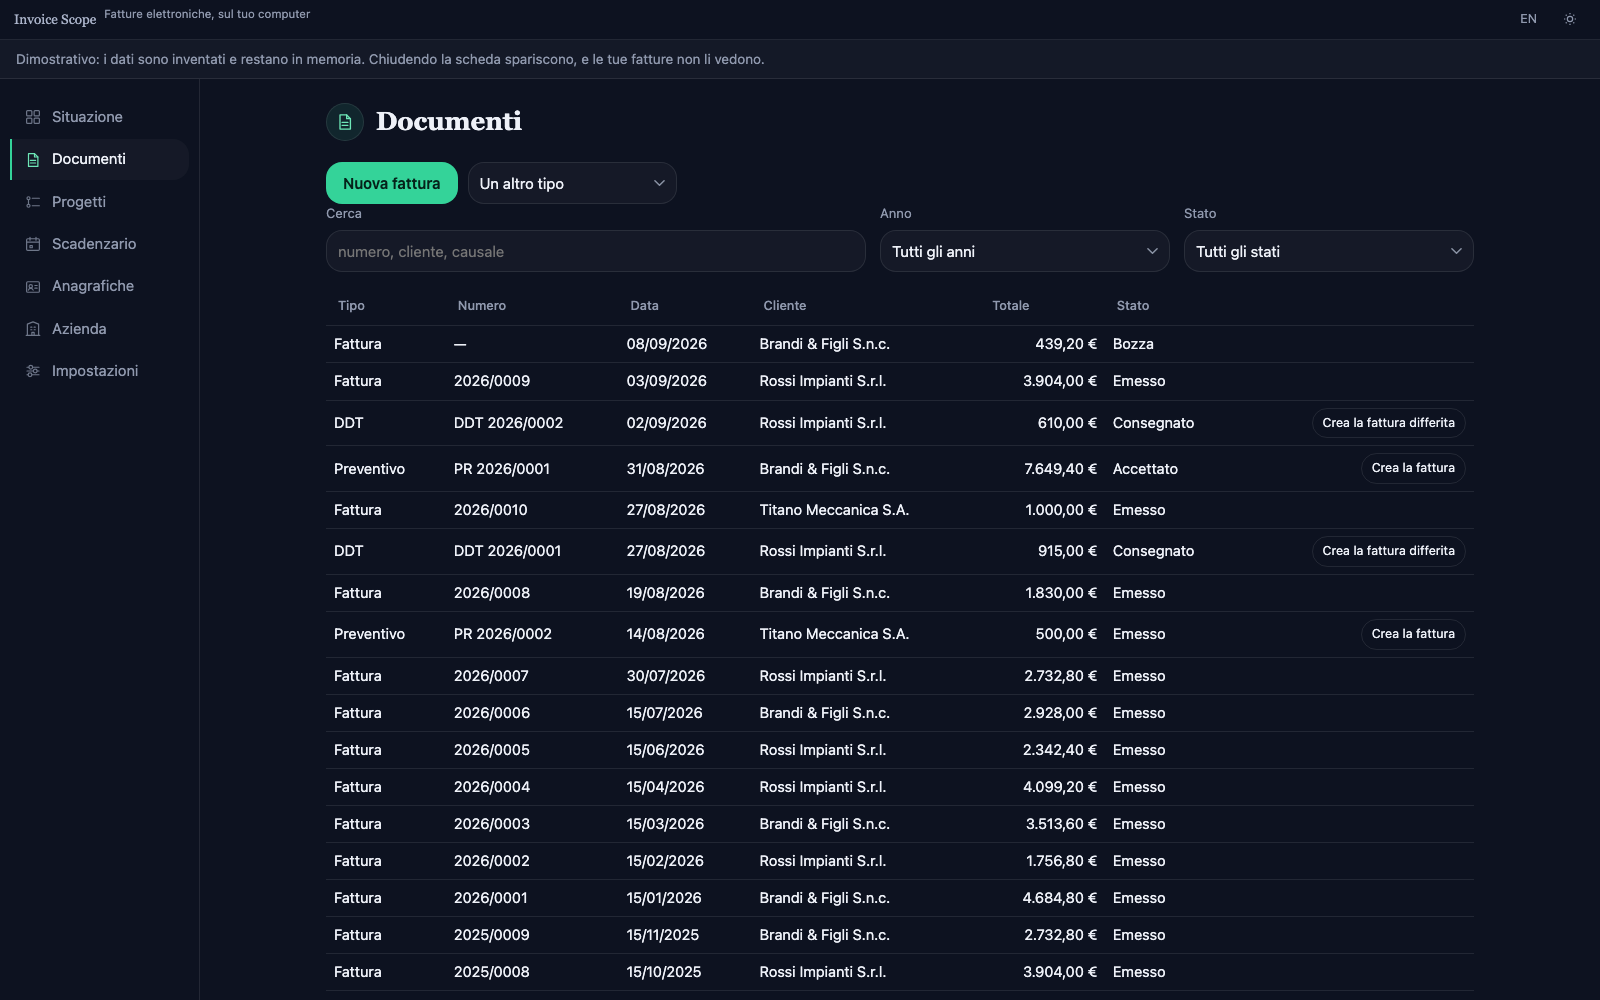
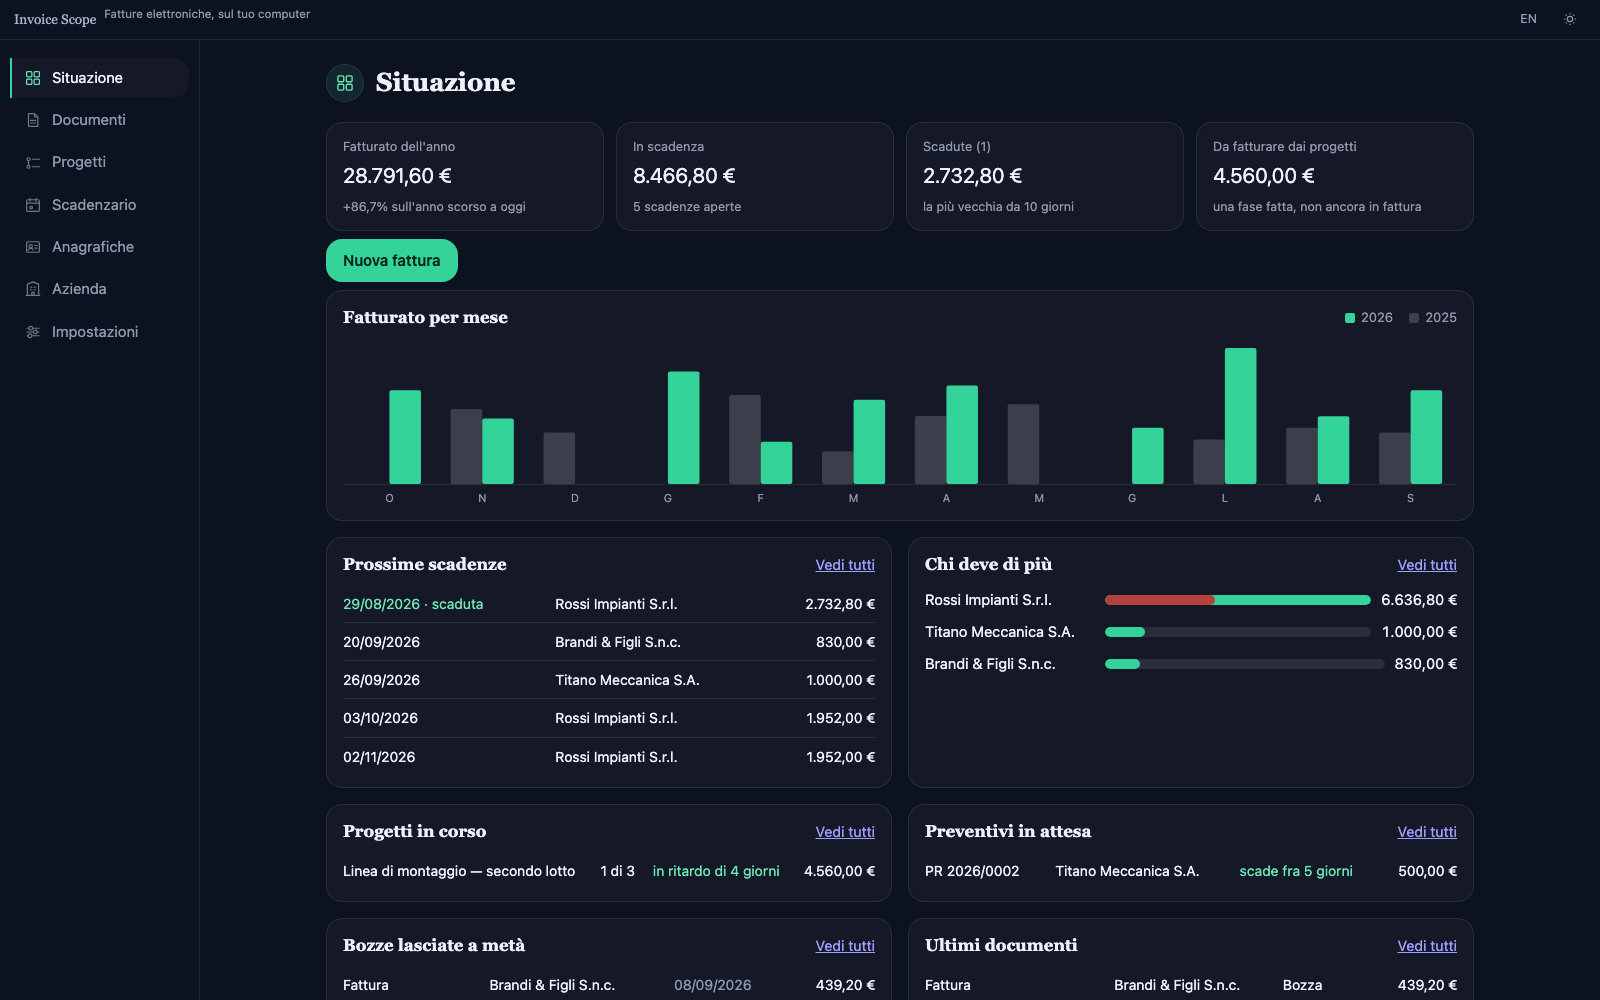
no message

diff --git a/app/invoice-scope/index.html b/app/invoice-scope/index.html
@@ -42,7 +42,7 @@
       document.documentElement.classList.add('js');
     })();
   </script>
-  <link rel="stylesheet" href="../../assets/site.css?v=010.790acb6c">
+  <link rel="stylesheet" href="../../assets/site.css?v=011.38507339">
   <script type="application/ld+json">
 [
   {
@@ -52,7 +52,7 @@
     "url": "https://ggtechnologies.sm/app/invoice-scope/",
     "applicationCategory": "UtilitiesApplication",
     "operatingSystem": "Any (web browser)",
-    "softwareVersion": "0.37.3",
+    "softwareVersion": "0.37.5",
     "datePublished": "2026-09-03",
     "dateModified": "2026-09-08",
     "license": "https://www.apache.org/licenses/LICENSE-2.0",
@@ -158,7 +158,29 @@
         </div>
       <figure class="app-shot reveal">
         <img src="/assets/shot-invoice-scope-it.png" width="1600" height="1000" loading="lazy" decoding="async"
-             alt="L'interfaccia dell'app, in esecuzione nel browser.">
+             alt="La Situazione: quanto hai fatturato, quanto ti devono, il fatturato per mese, chi deve di più, i progetti in ritardo.">
+        <div class="app-gallery" aria-label="Altre schermate">
+          <a class="app-gallery-item" href="/assets/shot-invoice-scope-fattura-it.png" target="_blank" rel="noopener">
+            <img src="/assets/shot-invoice-scope-fattura-it.png" width="1600" height="1000" loading="lazy" decoding="async"
+                 alt="Una fattura emessa: righe, riepilogo IVA, incassi, e il file XML da scaricare.">
+            <span>Una fattura emessa: righe, riepilogo IVA, incassi, e il file XML da scaricare.</span>
+          </a>
+          <a class="app-gallery-item" href="/assets/shot-invoice-scope-progetto-it.png" target="_blank" rel="noopener">
+            <img src="/assets/shot-invoice-scope-progetto-it.png" width="1600" height="1000" loading="lazy" decoding="async"
+                 alt="Un progetto: le fasi con l'importo, le pagine di appunti, i documenti collegati.">
+            <span>Un progetto: le fasi con l'importo, le pagine di appunti, i documenti collegati.</span>
+          </a>
+          <a class="app-gallery-item" href="/assets/shot-invoice-scope-cliente-it.png" target="_blank" rel="noopener">
+            <img src="/assets/shot-invoice-scope-cliente-it.png" width="1600" height="1000" loading="lazy" decoding="async"
+                 alt="La scheda di un cliente: le persone, il diario delle telefonate, i suoi documenti.">
+            <span>La scheda di un cliente: le persone, il diario delle telefonate, i suoi documenti.</span>
+          </a>
+          <a class="app-gallery-item" href="/assets/shot-invoice-scope-scadenzario-it.png" target="_blank" rel="noopener">
+            <img src="/assets/shot-invoice-scope-scadenzario-it.png" width="1600" height="1000" loading="lazy" decoding="async"
+                 alt="Lo scadenzario: le rate, quelle scadute, e l'incasso da registrare.">
+            <span>Lo scadenzario: le rate, quelle scadute, e l'incasso da registrare.</span>
+          </a>
+        </div>
       </figure>
         <div class="app-lists">
           <div class="app-list does">
@@ -291,7 +313,7 @@
             </div>
           </div>
         </div>
-        <p class="app-meta"><span><b>Versione</b> 0.37.3</span><span><b>Aggiornata il</b> 8 settembre 2026</span><span><b>Licenza</b> Apache-2.0</span><a href="https://github.com/G-G-Technologies-Srl/g-g-technologies-srl.github.io/tree/main/app/invoice-scope" rel="noopener">Codice sorgente</a></p>
+        <p class="app-meta"><span><b>Versione</b> 0.37.5</span><span><b>Aggiornata il</b> 8 settembre 2026</span><span><b>Licenza</b> Apache-2.0</span><a href="https://github.com/G-G-Technologies-Srl/g-g-technologies-srl.github.io/tree/main/app/invoice-scope" rel="noopener">Codice sorgente</a></p>
       </div>
     </section>
 

diff --git a/en/app/invoice-scope/index.html b/en/app/invoice-scope/index.html
@@ -42,7 +42,7 @@
       document.documentElement.classList.add('js');
     })();
   </script>
-  <link rel="stylesheet" href="../../../assets/site.css?v=010.790acb6c">
+  <link rel="stylesheet" href="../../../assets/site.css?v=011.38507339">
   <script type="application/ld+json">
 [
   {
@@ -52,7 +52,7 @@
     "url": "https://ggtechnologies.sm/en/app/invoice-scope/",
     "applicationCategory": "UtilitiesApplication",
     "operatingSystem": "Any (web browser)",
-    "softwareVersion": "0.37.3",
+    "softwareVersion": "0.37.5",
     "datePublished": "2026-09-03",
     "dateModified": "2026-09-08",
     "license": "https://www.apache.org/licenses/LICENSE-2.0",
@@ -158,7 +158,29 @@
         </div>
       <figure class="app-shot reveal">
         <img src="/assets/shot-invoice-scope-en.png" width="1600" height="1000" loading="lazy" decoding="async"
-             alt="The app running in the browser.">
+             alt="The overview: what you have invoiced, what you are owed, invoicing by month, who owes the most, projects running late.">
+        <div class="app-gallery" aria-label="More screens">
+          <a class="app-gallery-item" href="/assets/shot-invoice-scope-fattura-en.png" target="_blank" rel="noopener">
+            <img src="/assets/shot-invoice-scope-fattura-en.png" width="1600" height="1000" loading="lazy" decoding="async"
+                 alt="An issued invoice: lines, VAT summary, payments, and the XML file to download.">
+            <span>An issued invoice: lines, VAT summary, payments, and the XML file to download.</span>
+          </a>
+          <a class="app-gallery-item" href="/assets/shot-invoice-scope-progetto-en.png" target="_blank" rel="noopener">
+            <img src="/assets/shot-invoice-scope-progetto-en.png" width="1600" height="1000" loading="lazy" decoding="async"
+                 alt="A project: phases with their amount, note pages, linked documents.">
+            <span>A project: phases with their amount, note pages, linked documents.</span>
+          </a>
+          <a class="app-gallery-item" href="/assets/shot-invoice-scope-cliente-en.png" target="_blank" rel="noopener">
+            <img src="/assets/shot-invoice-scope-cliente-en.png" width="1600" height="1000" loading="lazy" decoding="async"
+                 alt="A customer record: the people, the diary of calls, their documents.">
+            <span>A customer record: the people, the diary of calls, their documents.</span>
+          </a>
+          <a class="app-gallery-item" href="/assets/shot-invoice-scope-scadenzario-en.png" target="_blank" rel="noopener">
+            <img src="/assets/shot-invoice-scope-scadenzario-en.png" width="1600" height="1000" loading="lazy" decoding="async"
+                 alt="The payment schedule: instalments, the overdue ones, and the payment to record.">
+            <span>The payment schedule: instalments, the overdue ones, and the payment to record.</span>
+          </a>
+        </div>
       </figure>
         <div class="app-lists">
           <div class="app-list does">
@@ -291,7 +313,7 @@
             </div>
           </div>
         </div>
-        <p class="app-meta"><span><b>Version</b> 0.37.3</span><span><b>Updated</b> 8 September 2026</span><span><b>Licence</b> Apache-2.0</span><a href="https://github.com/G-G-Technologies-Srl/g-g-technologies-srl.github.io/tree/main/app/invoice-scope" rel="noopener">Source code</a></p>
+        <p class="app-meta"><span><b>Version</b> 0.37.5</span><span><b>Updated</b> 8 September 2026</span><span><b>Licence</b> Apache-2.0</span><a href="https://github.com/G-G-Technologies-Srl/g-g-technologies-srl.github.io/tree/main/app/invoice-scope" rel="noopener">Source code</a></p>
       </div>
     </section>
 

diff --git a/app/invoice-scope/run/app.js b/app/invoice-scope/run/app.js
@@ -248,6 +248,40 @@ async function _drawSteps(company, docs) {
   el("setupNote").hidden = isDemo() || (fatti.stepCompany && fatti.stepDoc && fatti.stepBackup);
 }
 
+/**
+ * La schermata su cui apre il dimostrativo, da `?view=`.
+ *
+ * I documenti del dimostrativo hanno id nuovi a ogni apertura, quindi «la fattura» e «il
+ * preventivo» si cercano per tipo e stato, non per id; il cliente e il progetto no, quelli sono
+ * fissi. Una chiave sconosciuta apre la Situazione, che è anche la risposta senza `view=`.
+ */
+async function _demoView(db) {
+  const view = new URLSearchParams(location.search).get("view") || "";
+  const docs = await documents(db);
+  const primo = (test) => docs.find(test);
+  switch (view) {
+    case "documenti": return "#/documenti";
+    case "scadenzario": return "#/scadenzario";
+    case "anagrafiche": return "#/anagrafiche";
+    case "progetti": return "#/progetti";
+    case "azienda": return "#/azienda";
+    case "cliente": return "#/cliente/demo-1";
+    case "progetto": {
+      const record = progetti.projects()[0];
+      return record ? `#/progetto/${record.id}` : "#/progetti";
+    }
+    case "fattura": {
+      const doc = primo((one) => one.tipo === "TD01" && one.stato === "emesso");
+      return doc ? `#/documento/${doc.id}` : "#/documenti";
+    }
+    case "preventivo": {
+      const doc = primo((one) => one.tipo === "preventivo" && one.stato === "accettato");
+      return doc ? `#/documento/${doc.id}` : "#/documenti";
+    }
+    default: return "#/";
+  }
+}
+
 /** Redraw what the shell shows. Cheap enough to do on every route. */
 async function _refresh() {
   backup.touch();
@@ -801,7 +835,12 @@ async function main() {
 
   // Nel dimostrativo non si offre di installare: quello che si installerebbe è una copia con dentro
   // dati inventati, e l'invito arriverebbe prima che uno abbia capito che cosa sta guardando.
-  el("demoNote").hidden = !isDemo();
+  // Senza la striscia del dimostrativo quando la pagina è una fotografia: nella scheda e sui
+  // social la striscia sarebbe la prima riga che si legge, e dice una cosa della pagina, non
+  // dell'app. `shot=1` lo chiede solo `make_screenshots.py`; nel dimostrativo aperto da una
+  // persona la striscia resta, perché lì è un'informazione dovuta.
+  const foto = new URLSearchParams(location.search).get("shot") === "1";
+  el("demoNote").hidden = !isDemo() || foto;
   if (!isDemo()) {
     setupInstall(el("install"), el("installHint"), {
       storageKey: "gg.invoice-scope.install-dismissed",
@@ -820,11 +859,11 @@ async function main() {
   // Survey Scope ha già pagato una volta.
   if (isDemo()) {
     await seed(db);
-    // **Il dimostrativo si apre sull'elenco, non su Situazione.** Situazione sono tre numeri, veri
-    // e poco eloquenti; l'elenco mostra in un colpo i cinque tipi di documento, la numerazione per
-    // serie e il comando che trasforma un preventivo in fattura — che è quello che l'app fa. È
-    // anche la schermata che finisce nello screenshot della scheda, e che deve reggere da sola.
-    if (!location.hash) location.hash = "#/documenti";
+    // **Il dimostrativo si apre sulla Situazione**, da quando è una dashboard: numeri, grafico dei
+    // mesi, chi deve di più, progetti, preventivi. Prima apriva sull'elenco, perché la Situazione
+    // erano tre numeri e poco altro. `view=` sceglie un'altra schermata: serve a
+    // `make_screenshots.py`, che non sa cliccare, per fotografare la galleria della scheda.
+    if (!location.hash) location.hash = await _demoView(db);
   }
 
   el("companyForm").addEventListener("submit", _saveCompany);

diff --git a/assets/site.css b/assets/site.css
@@ -978,6 +978,38 @@
   border-radius: var(--radius);
 }
 
+/* La galleria sotto lo screenshot grande: una striscia che scorre di lato, con lo scatto sulle
+   miniature. Stessa scatola dell'immagine grande, più piccola; la didascalia sotto in tinta bassa. */
+.app-gallery {
+  display: flex;
+  gap: 14px;
+  margin-top: 14px;
+  overflow-x: auto;
+  scroll-snap-type: x mandatory;
+  padding-bottom: 6px;
+  scrollbar-width: thin;
+}
+.app-gallery-item {
+  flex: 0 0 300px;
+  scroll-snap-align: start;
+  text-decoration: none;
+  color: var(--faint);
+  font-size: 0.82rem;
+  line-height: 1.4;
+}
+.app-gallery-item img {
+  display: block;
+  width: 100%;
+  height: auto;
+  border: 1px solid var(--border);
+  border-radius: var(--radius);
+  margin-bottom: 8px;
+  transition: border-color 0.2s ease;
+}
+.app-gallery-item:hover img { border-color: var(--accent); }
+.app-gallery-item span { display: block; }
+@media (max-width: 640px) { .app-gallery-item { flex-basis: 240px; } }
+
 .app-meta { display: flex; flex-wrap: wrap; gap: 8px 22px; margin-top: 22px; color: var(--faint); font-size: 0.88rem; }
 .app-meta b { color: var(--muted); font-weight: 500; }
 

diff --git a/en/on-premise-ai/index.html b/en/on-premise-ai/index.html
@@ -7,7 +7,7 @@
   <link rel="canonical" href="https://ggtechnologies.sm/en/services/on-premise-ai/">
   <meta http-equiv="refresh" content="0; url=https://ggtechnologies.sm/en/services/on-premise-ai/">
   <meta name="robots" content="noarchive">
-  <link rel="stylesheet" href="/assets/site.css?v=010.790acb6c">
+  <link rel="stylesheet" href="/assets/site.css?v=011.38507339">
 </head>
 <body>
   <main id="main" style="min-height:60vh;display:grid;place-items:center;text-align:center;padding:40px">

diff --git a/ai-on-premise/index.html b/ai-on-premise/index.html
@@ -7,7 +7,7 @@
   <link rel="canonical" href="https://ggtechnologies.sm/servizi/ai-on-premise/">
   <meta http-equiv="refresh" content="0; url=https://ggtechnologies.sm/servizi/ai-on-premise/">
   <meta name="robots" content="noarchive">
-  <link rel="stylesheet" href="/assets/site.css?v=010.790acb6c">
+  <link rel="stylesheet" href="/assets/site.css?v=011.38507339">
 </head>
 <body>
   <main id="main" style="min-height:60vh;display:grid;place-items:center;text-align:center;padding:40px">

diff --git a/app/invoice-scope/run/sw.js b/app/invoice-scope/run/sw.js
@@ -12,7 +12,7 @@
 //    a running app means changing the code while somebody is halfway through an invoice, and
 //    saving them one reload is not worth that — here least of all.
 
-const VERSION = '0.37.3';
+const VERSION = '0.37.5';
 const CACHE = `invoice-scope-v${VERSION}`;
 
 // Every file the app is made of. Kept by hand and checked by _src/check_apps.py against the

diff --git a/en/app/astrodroid/index.html b/en/app/astrodroid/index.html
@@ -42,7 +42,7 @@
       document.documentElement.classList.add('js');
     })();
   </script>
-  <link rel="stylesheet" href="../../../assets/site.css?v=010.790acb6c">
+  <link rel="stylesheet" href="../../../assets/site.css?v=011.38507339">
   <script type="application/ld+json">
 [
   {

diff --git a/en/app/csv-scope/index.html b/en/app/csv-scope/index.html
@@ -42,7 +42,7 @@
       document.documentElement.classList.add('js');
     })();
   </script>
-  <link rel="stylesheet" href="../../../assets/site.css?v=010.790acb6c">
+  <link rel="stylesheet" href="../../../assets/site.css?v=011.38507339">
   <script type="application/ld+json">
 [
   {

diff --git a/en/app/plan-scope/index.html b/en/app/plan-scope/index.html
@@ -42,7 +42,7 @@
       document.documentElement.classList.add('js');
     })();
   </script>
-  <link rel="stylesheet" href="../../../assets/site.css?v=010.790acb6c">
+  <link rel="stylesheet" href="../../../assets/site.css?v=011.38507339">
   <script type="application/ld+json">
 [
   {

diff --git a/en/app/spronia/index.html b/en/app/spronia/index.html
@@ -42,7 +42,7 @@
       document.documentElement.classList.add('js');
     })();
   </script>
-  <link rel="stylesheet" href="../../../assets/site.css?v=010.790acb6c">
+  <link rel="stylesheet" href="../../../assets/site.css?v=011.38507339">
   <script type="application/ld+json">
 [
   {

diff --git a/en/app/survey-scope/index.html b/en/app/survey-scope/index.html
@@ -42,7 +42,7 @@
       document.documentElement.classList.add('js');
     })();
   </script>
-  <link rel="stylesheet" href="../../../assets/site.css?v=010.790acb6c">
+  <link rel="stylesheet" href="../../../assets/site.css?v=011.38507339">
   <script type="application/ld+json">
 [
   {
